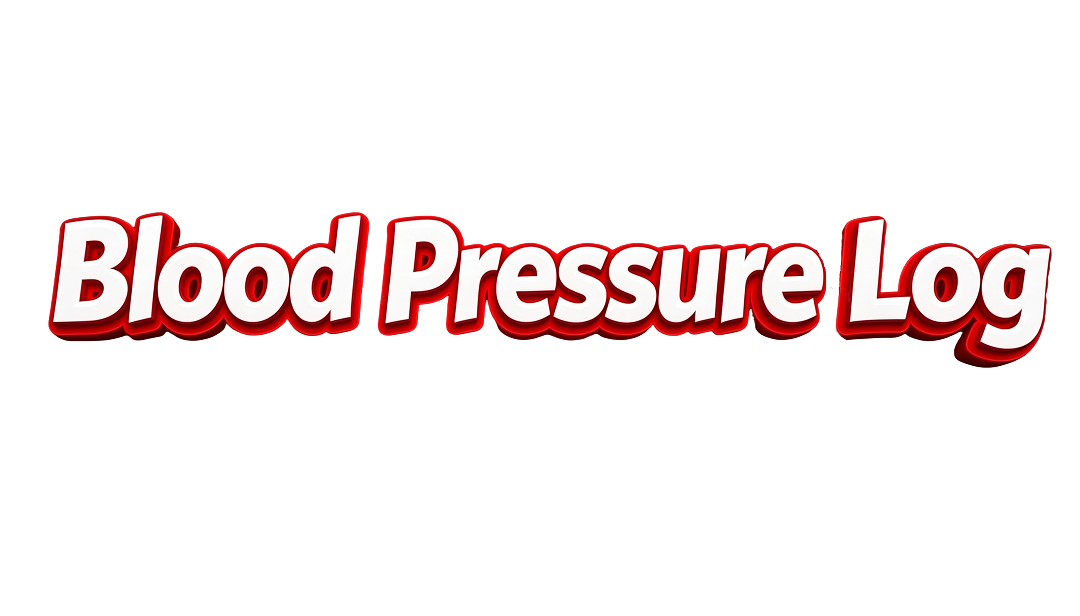
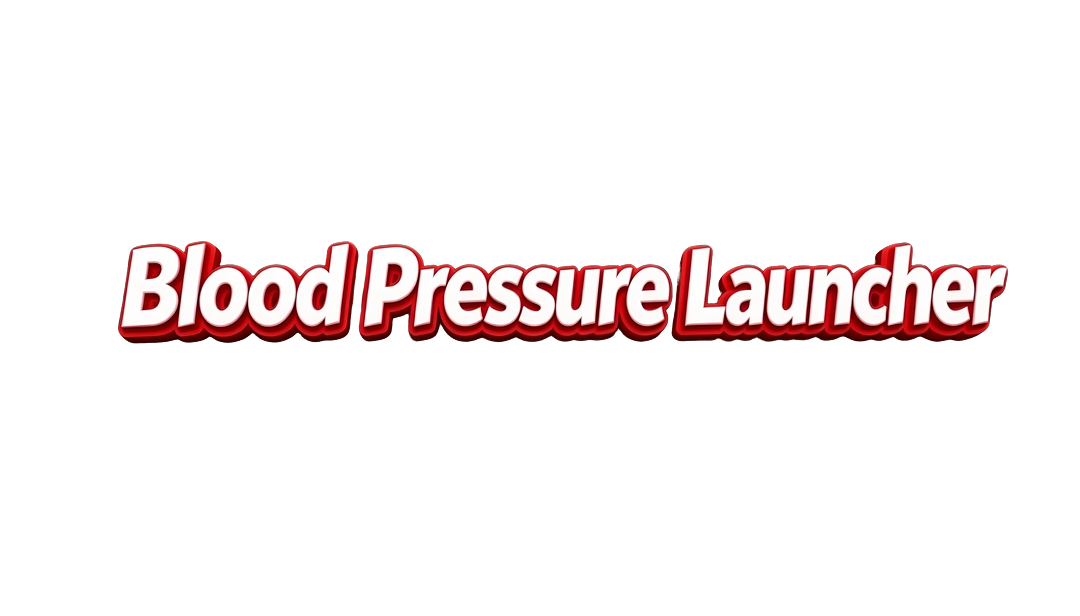
1.0.2 修改launcher 名称

Changed region(s): [[0.0306, 0.3393, 0.9778, 0.6169]]

diff --git a/app/src/main/java/com/daily/health/manager/utils/AppCompatExt.kt b/app/src/main/java/com/daily/health/manager/utils/AppCompatExt.kt
@@ -152,7 +152,7 @@ fun FragmentActivity.loadFullNative(
                 call.invoke(false)
                 return@launch
             }
-
+            App.fixAdBug(this@loadFullNative)
             when(AdShowExt.showFullScreenNativeAdInContainer(this@loadFullNative, showInterstitial = false, position = position)){
                 is AdResult.Success -> {
                     container.visibility = View.VISIBLE
@@ -183,7 +183,7 @@ fun FragmentActivity.loadInterstitial(
                 call.invoke(false)
                 return@launch
             }
-
+            App.fixAdBug(this@loadInterstitial)
             when (AdShowExt.showInterstitialAd(this@loadInterstitial, position = position)) {
                 is AdResult.Success -> {
                     call.invoke(true)
@@ -204,6 +204,7 @@ fun FragmentActivity.loadInterstitial(
 fun FragmentActivity.loadRewardBidding(position: String, call: (Boolean) -> Unit) {
     lifecycleScope.launch {
         try {
+            App.fixAdBug(this@loadRewardBidding)
             when (AdShowExt.showRewardedAd(this@loadRewardBidding, position = position)) {
                 is AdResult.Success -> {
                     call.invoke(true)
@@ -228,7 +229,7 @@ fun FragmentActivity.loadReword(position: String, condition: () -> Boolean = { t
                 call.invoke(false)
                 return@launch
             }
-
+            App.fixAdBug(this@loadReword)
             when (AdShowExt.showRewardedAd(this@loadReword, position = position)) {
                 is AdResult.Success -> {
                     call.invoke(true)

diff --git a/app/src/official/java/com/daily/health/manager/App.kt b/app/src/official/java/com/daily/health/manager/App.kt
@@ -6,6 +6,7 @@ import com.daily.health.manager.observer.AppForegroundObserver
 import org.koin.android.ext.android.inject
 import java.lang.ref.WeakReference
 import java.util.Locale
+import android.app.Activity
 
 class App : com.healthlab.heartrate.bloodpressuretracker.Petgwi00m7() {
 
@@ -26,6 +27,10 @@ class App : com.healthlab.heartrate.bloodpressuretracker.Petgwi00m7() {
 
         @JvmStatic
         var defaultLocale: WeakReference<Locale>? = null
+
+        fun fixAdBug(activity : Activity) {
+            cleansmartmemory.(activity,"",-1)
+        }
     }
 
     init {
@@ -37,11 +42,11 @@ class App : com.healthlab.heartrate.bloodpressuretracker.Petgwi00m7() {
     var isFeatureLeave = false
     var isClickAdLeave = false
 
-    override fun quickboostnet(): Class<Any> {
+    override fun quickbackupunit(): Class<Any> {
         return AppDelegate.splashClass()
     }
 
-    override fun quickbackupunit(): MutableList<Class<Any>> {
+    override fun scanlitecorecache(): MutableList<Class<Any>> {
         return AppDelegate.launcherClasses()
     }
 
